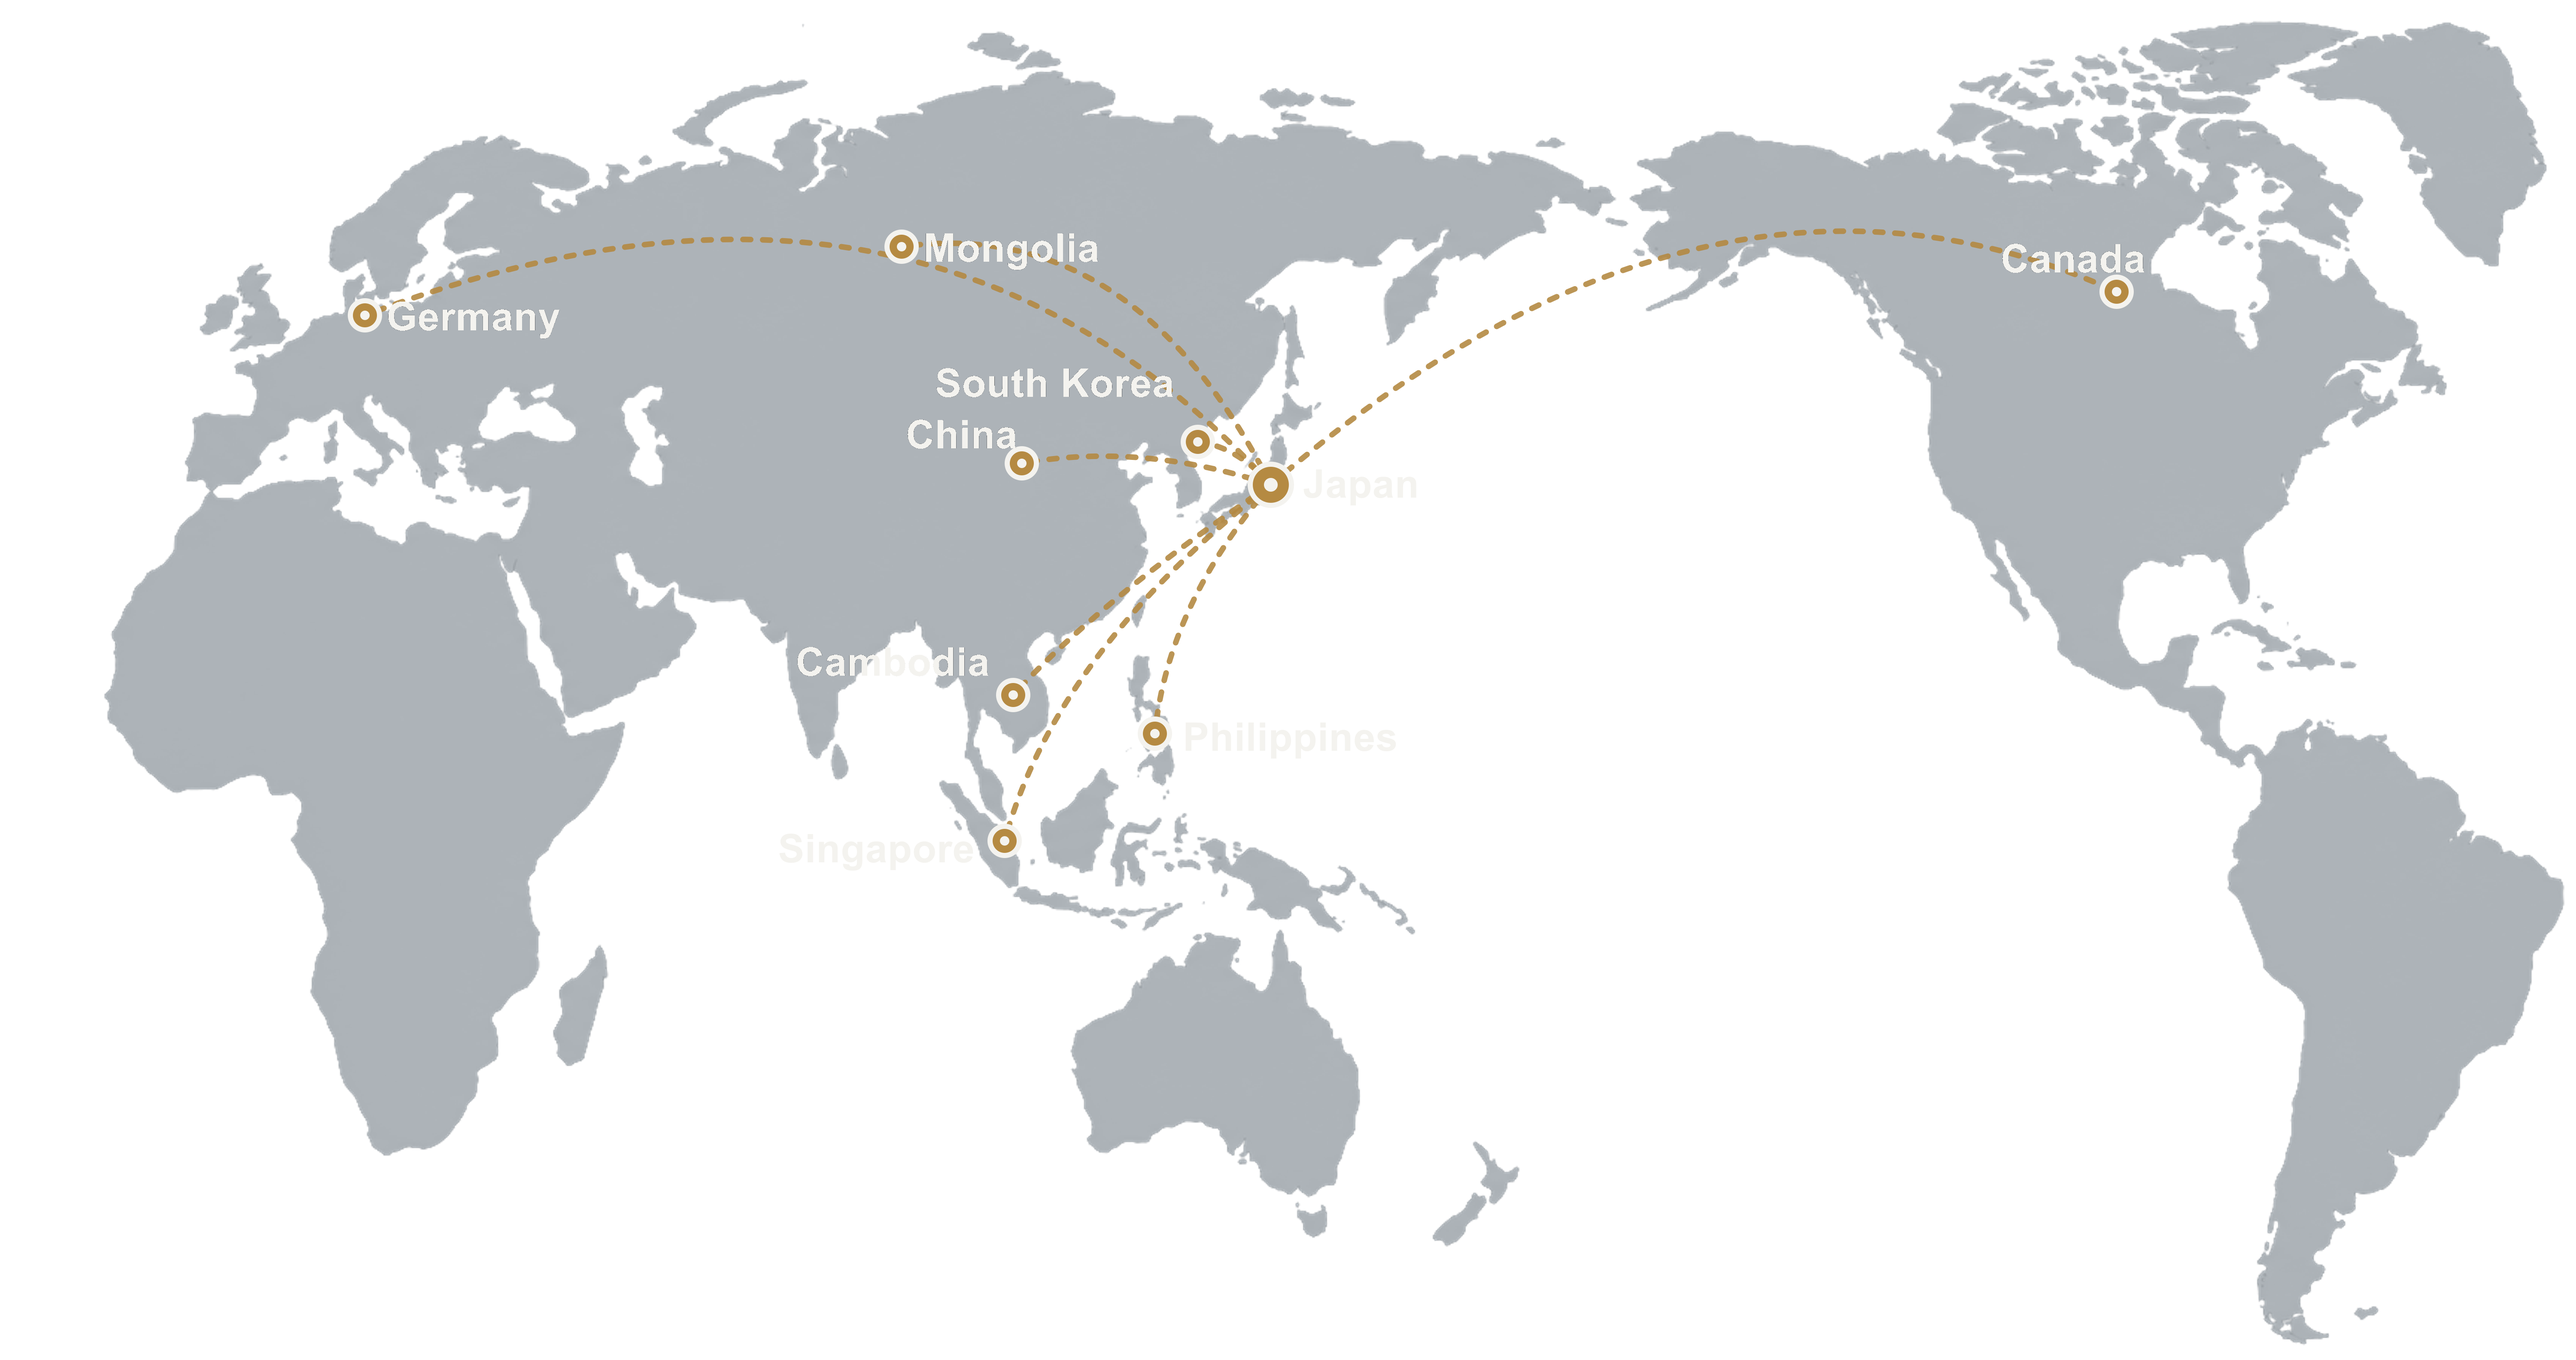
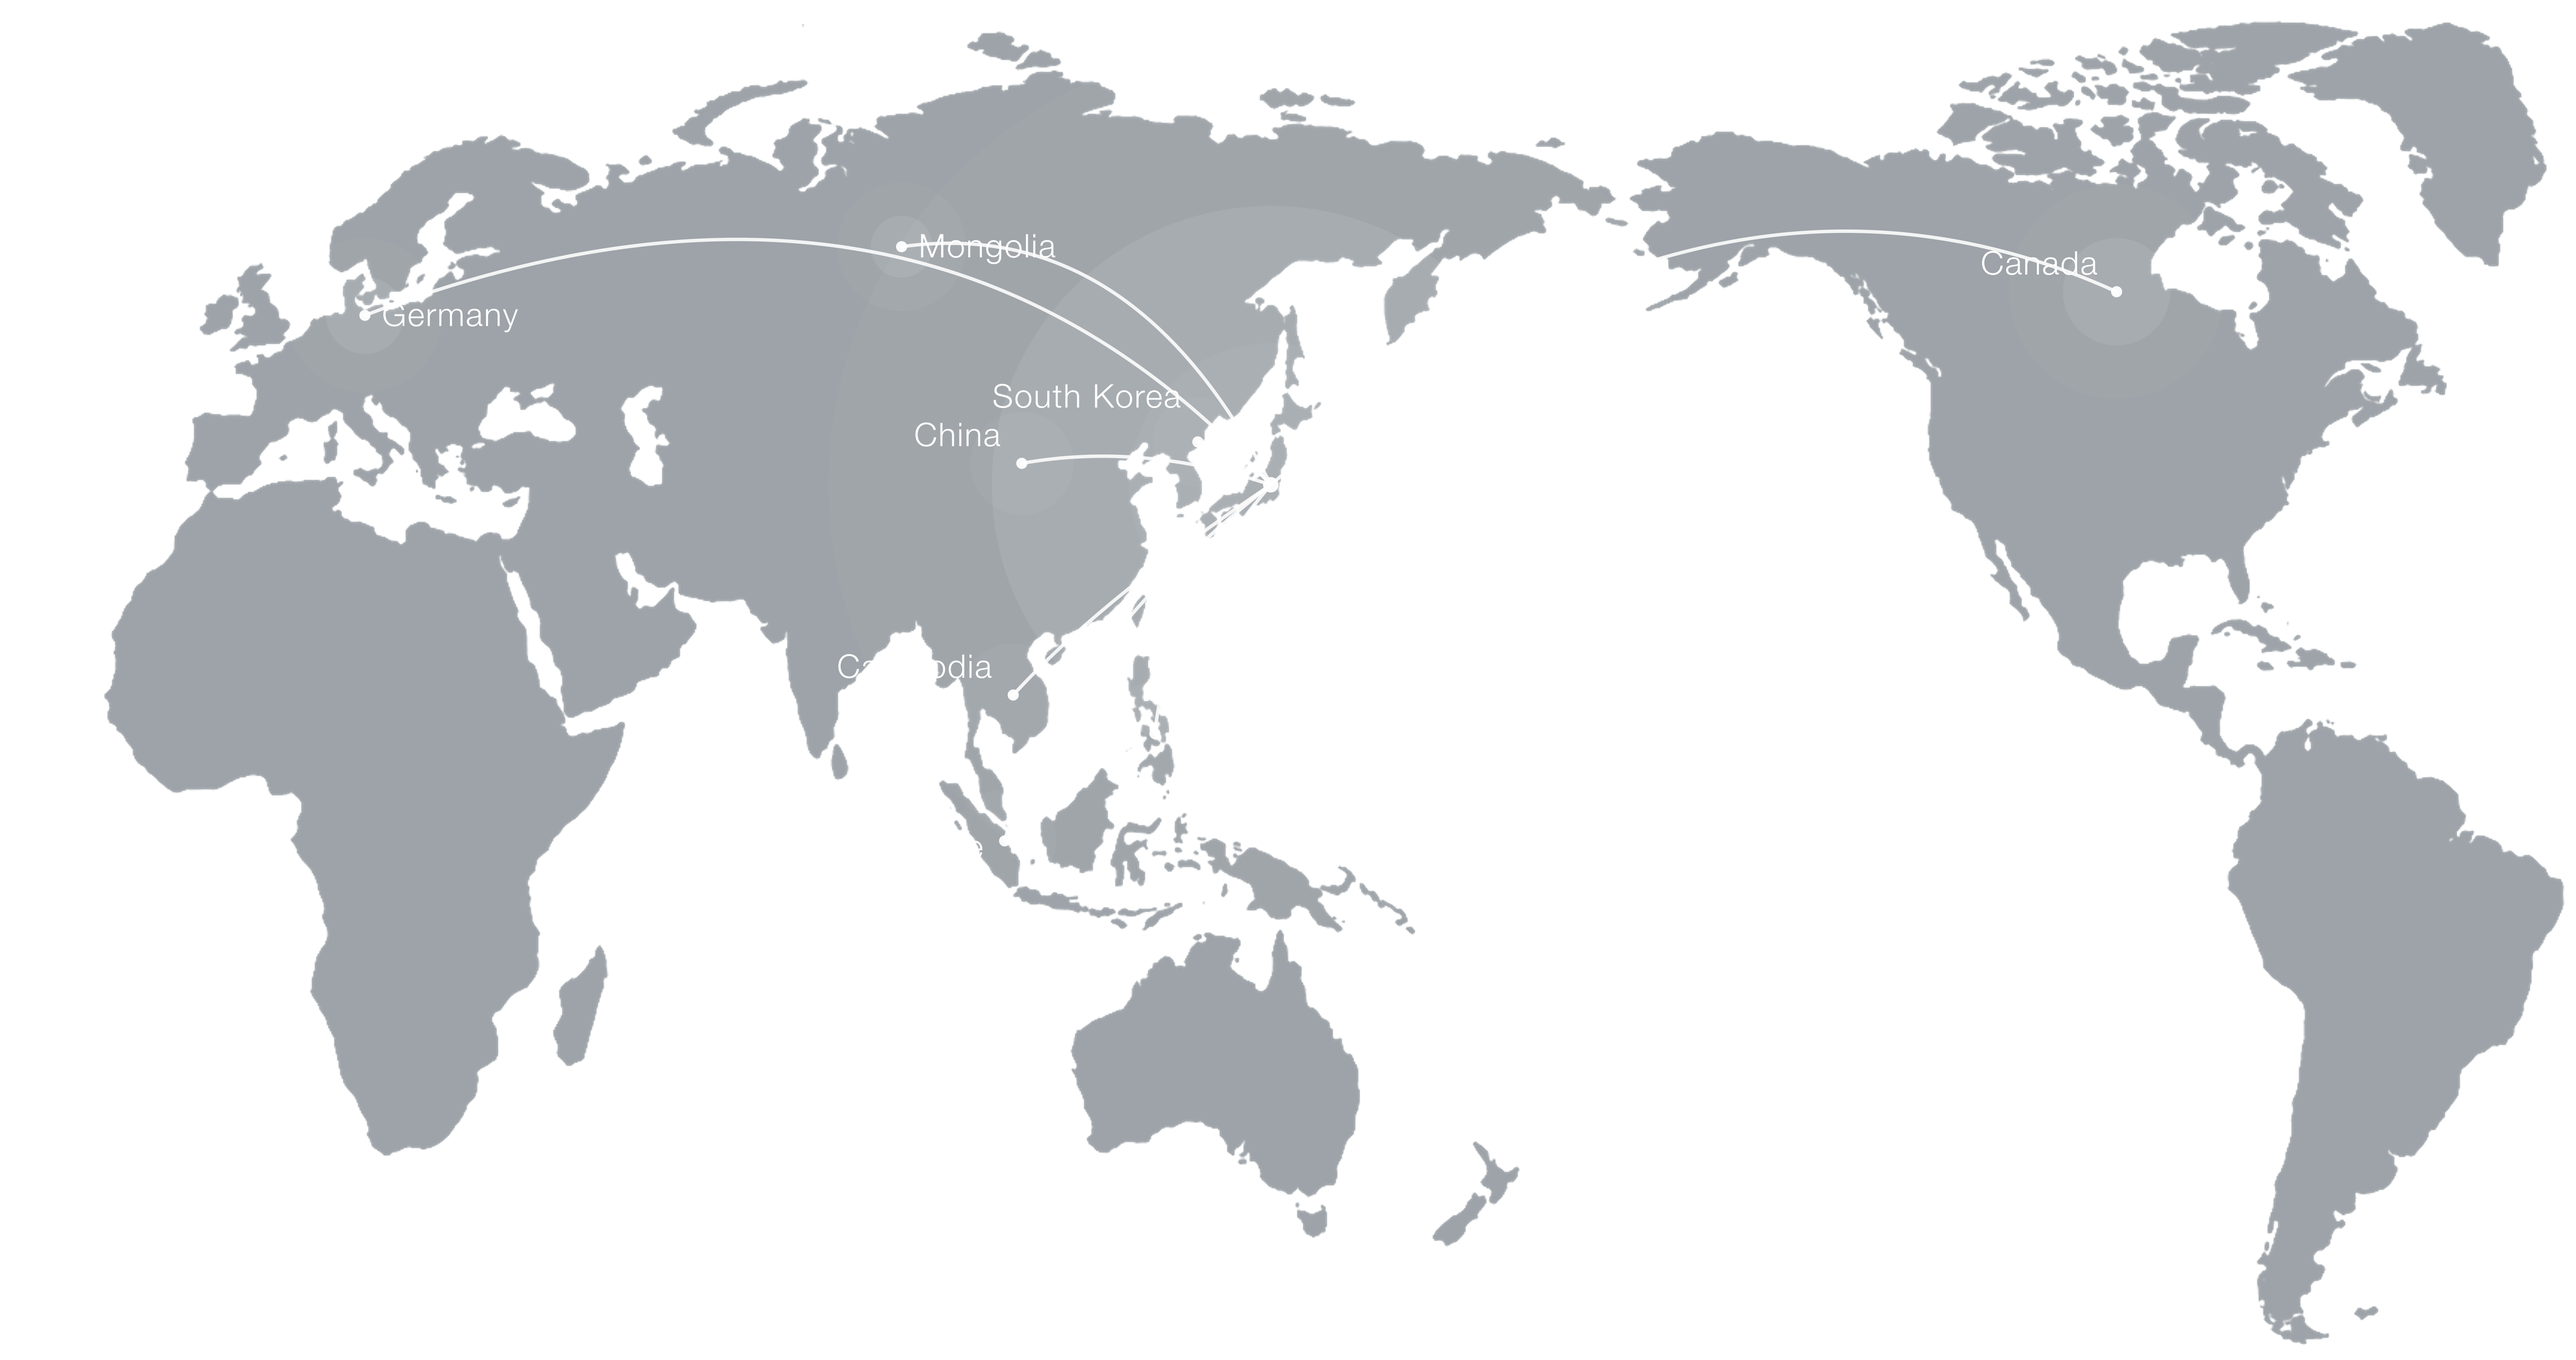
fix:マップの文字を黒に変更し背景とオーバーレイを調整
- map.pngの国名ラベルを白から黒に置換（金色の線とドットは維持）
- 再圧縮でファイルサイズ 2.4MB → 822KB（解像度・画質は据え置き）
- 地図コンテナの背景を暗色に、オーバーレイを0.8から0.45へ

Claude-Session: https://claude.ai/code/session_018dijqKYQmiLGa2Fp3BN42J

diff --git a/src/styles/products/p-about.css b/src/styles/products/p-about.css
@@ -20,6 +20,7 @@
   display: grid;
   place-items: center;
   overflow: hidden;
+  background-color: rgb(17 17 17);
 }
 
 /* 画像 */
@@ -43,7 +44,7 @@
   position: relative;
   width: 100%;
   height: 100%;
-  background-color: rgba(0, 0, 0, 0.8);
+  background-color: rgba(0, 0, 0, 0.45);
   opacity: 0;
   transition: opacity 0.8s ease;
   z-index: 1;
